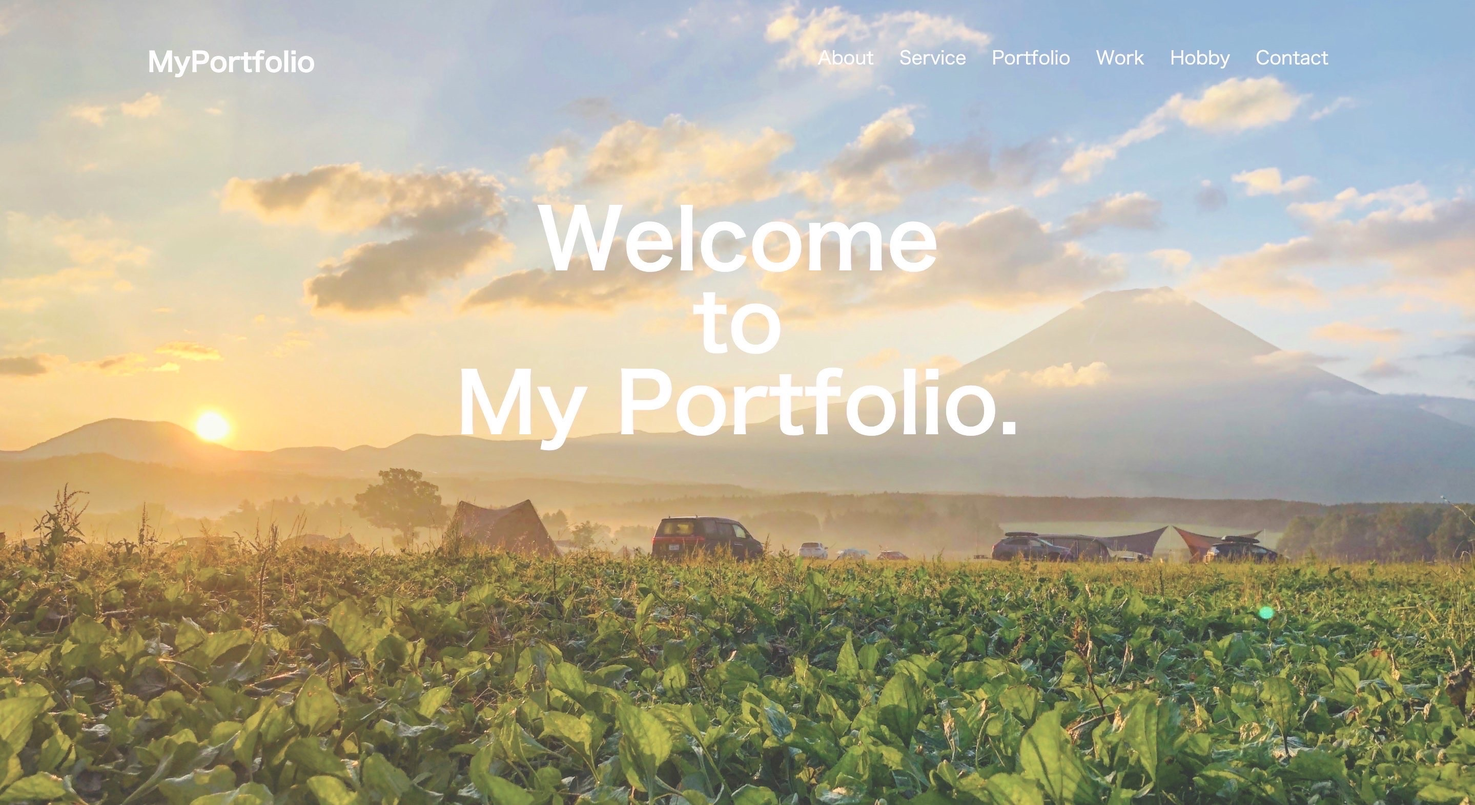
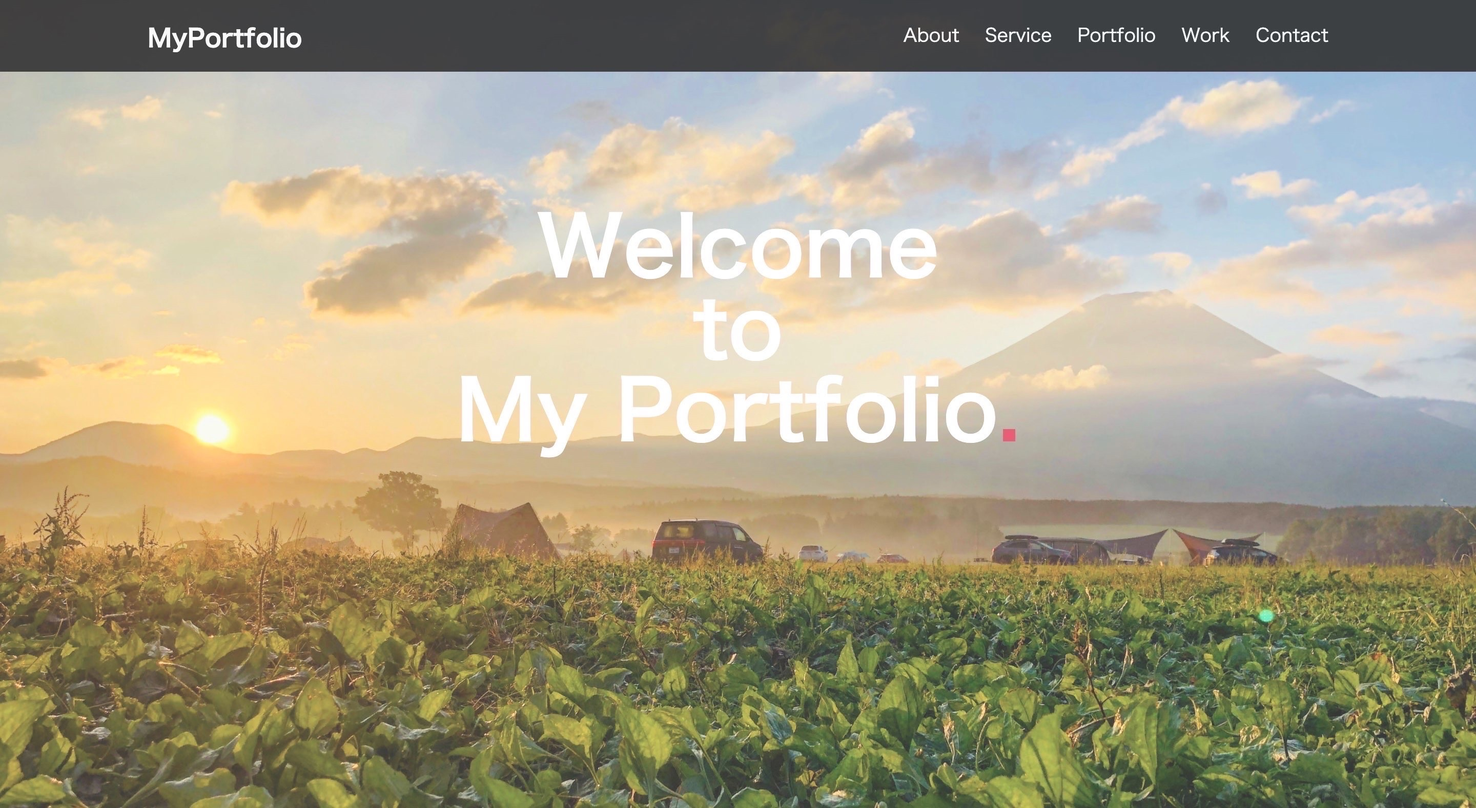
hamburgerメニュー修正

diff --git a/index.html b/index.html
@@ -29,10 +29,17 @@
             <a class="nav_list" href="#work">Work</a>
             <a class="nav_list" href="#contact">Contact</a>
           </ul>
-          <div class="hamburger">
+          <div class="hamburger" id="hamburger">
             <span class="hamburger_line"></span>
           </div>
         </div>
+          <ul class="hamburger_lists" id="hamburger_lists">
+            <a href="#about"><li class="hamburger_list">About</li></a>
+            <a href="#service"><li class="hamburger_list">Service</li></a>
+            <a href="#portfolio"><li class="hamburger_list" >Portfolio</li></a>
+            <a href="#work"><li class="hamburger_list" >Work</li></a>
+            <a href="#contact"><li class="hamburger_list" >Contact</li></a>
+          </ul>
       </nav>
         <div class="first_view">
           <h1 class="header_title wow fadeInUp">Welcome <br> to <br> My Portfolio<span>.</span></h1>
@@ -61,9 +68,10 @@
               パティシエとして４年勤務していました。<br>
               現在はプログラミングを学習中です。 </p>
             <div class="icons">
-              <a class="fab fa-facebook fa-2x sns" href="https://www.facebook.com/"></a>
-              <a class="fab fa-instagram fa-2x sns" href="https://www.instagram.com/?hl=ja"></a>
-              <a class="fab fa-twitter fa-2x sns" href="https://twitter.com/home?lang=ja"></a>
+              <a class="fab fa-facebook fa-2x sns" href="https://www.facebook.com/profile.php?id=100005422801007" target="blank"></a>
+              <a class="fab fa-instagram fa-2x sns" href="https://www.instagram.com/mixy_ne/?hl=ja" target="blank"></a>
+              <a class="fab fa-twitter fa-2x sns" href="https://twitter.com/mixy_ne" target="blank"></a>
+              <a class="fab fa-github fa-2x sns" href="https://github.com/matsumotoshogo1103" target="blank"></a>
             </div>
           </div>
         </div>
@@ -116,12 +124,12 @@
         画像をクリックすることで実際にご覧いただけます。</p>
         <div class="portfolio_cards wow fadeInUp">
           <div class="portfolio_card wow bounceIn">
-            <a href="https://book-forest-app.herokuapp.com/"><img src="./images/book-app.jpg" alt="" class="portfolio_img"></a>
+            <a href="https://book-forest-app.herokuapp.com/" target="blank"><img src="./images/book-app.jpg" alt="" class="portfolio_img"></a>
             <h1 class="portfolio_name">Book Forest</h1>
             <p class="portfolio_invite">あなたの本を登録できる管理ツールでありながら本棚をシェアできる”本のSNS”です。憧れの"あの人"や尊敬している"あの人"の本棚を覗いてみませんか？</p>
           </div>
           <div class="portfolio_card wow bounceIn">
-            <a href="https://furima-31047.herokuapp.com/"><img src="./images/furima.jpg" alt="" class="portfolio_img"></a>
+            <a href="https://furima-31047.herokuapp.com/" target="blank"><img src="./images/furima.jpg" alt="" class="portfolio_img"></a>
             <h1 class="portfolio_name">Furima</h1>
             <p class="portfolio_invite">Tech Camp卒業制作で作成したフリーマーケットアプリです。PAY.JPのAPIを用いたクレジットカード決済機能も実装しています。</p>
           </div>
@@ -212,7 +220,6 @@
         return false;
       });
     </script> 
-
     <script type="text/javascript" src="js/hamburger.js"></script>
     <script type="text/javascript" src="js/slick.min.js"></script>
     <script type="text/javascript" src="js/common.js"></script>

diff --git a/css/style.css b/css/style.css
@@ -27,6 +27,7 @@ header {
 
 .header_nav_bar {
   display: flex;
+  justify-content: space-between;
 }
 
 .nav_title {
@@ -41,7 +42,6 @@ header {
 
 .nav_lists {
   display: flex;
-  margin-left: auto;
 }
 
 .nav_list {
@@ -82,9 +82,9 @@ header {
   border-bottom: 3px solid #fff;
   width: 30px;
   height: 25px;
-  margin-left: auto;
   position: relative;
   display: none;
+  cursor: pointer;
 }
 
 .hamburger_line {
@@ -93,6 +93,26 @@ header {
   top: 40%;
   width: 30px;
 }
+
+.hamburger_lists {
+  display: none;
+}
+
+.hamburger_list {
+  width: 30%;
+  margin-left: auto;
+  line-height: 20px;
+  background-color: #333333;
+  padding: 10px;
+  text-align: center;
+  cursor: pointer;
+}
+
+.hamburger_list:hover {
+  color: #e65f78;
+}
+
+
 
 .header_title {
   padding-top: 200px;
@@ -166,6 +186,10 @@ span {
 
 .fa-twitter:hover {
   color: #1DA1F2;
+}
+
+.fa-github:hover {
+  color: #8241f9;
 }
 
 /* ABOUT END */

diff --git a/js/hamburger.js b/js/hamburger.js
@@ -1,7 +1,11 @@
-// window.addEventListener("load", () => {
-//   const hamburgerIcon = document.getElementById("hamburger_icon");
-//   hamburgerIcon.addEventListener("click", () => {
-//     const hamburger = document.getElementById("hamburger");
-//     hamburger.setAttribute("style", "display:block;");
-//   });
-// });
+window.addEventListener("load", () => {
+  const hamburger = document.getElementById("hamburger");
+  hamburger.addEventListener("click", () => {
+    const hamburgerLists = document.getElementById("hamburger_lists");
+    if (hamburgerLists.getAttribute("style") == "display:block;") {
+      hamburgerLists.removeAttribute("style", "display:block;")
+    } else {
+      hamburgerLists.setAttribute("style", "display:block;")
+    }
+  });
+});
